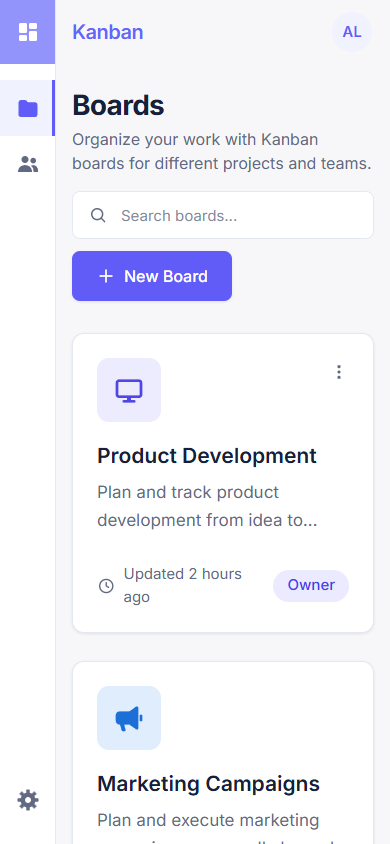
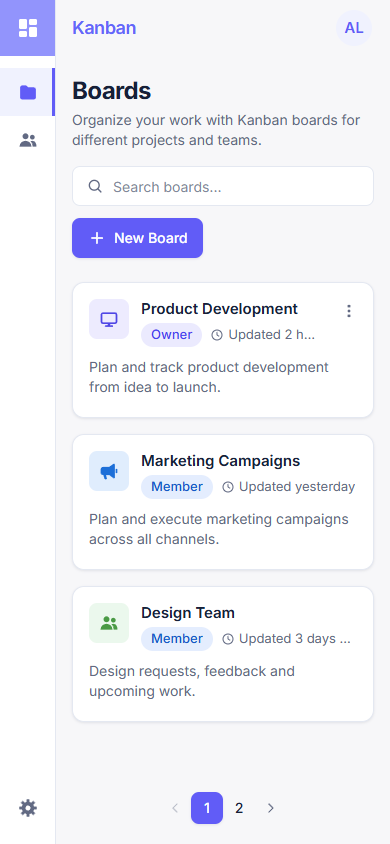
docs: document fit-to-screen paging and refresh board screenshots

diff --git a/docs/architecture/frontend-architecture.md b/docs/architecture/frontend-architecture.md
@@ -27,9 +27,9 @@ apps/frontend/src/
 │   ├── boards/               # api, query keys + hooks, Boards list / Board detail pages
 │   └── board-members/        # api, hooks, membership rules, Board Members page
 ├── pages/                    # NotFoundPage, RouteErrorPage
-├── components/               # UI primitives dùng chung (Button, TextField, Dialog, ActionMenu, states, ...)
-├── hooks/                    # usePageTitle, useFocusFirstInvalid
-├── lib/                      # env, api-client (REST envelope + pagination), query-client, form-errors, format
+├── components/               # UI primitives dùng chung (Button, TextField, Dialog, ActionMenu, Pagination, states, ...)
+├── hooks/                    # usePageTitle, useFocusFirstInvalid, useFitGrid, usePageParam, useMediaQuery
+├── lib/                      # env, api-client (REST envelope + pagination), query-client, form-errors, format, pagination
 ├── test/                     # test setup và helpers
 ├── App.tsx
 ├── main.tsx
@@ -40,6 +40,8 @@ apps/frontend/src/
 - REST client dùng chung nằm ở `lib/api-client.ts`; API calls theo feature nằm trong `features/<feature>/api.ts`, chưa có thư mục `api/` riêng.
 - Auth, Board và BoardMember types hiện định nghĩa trong `features/<feature>/types.ts` cho đến khi backend bổ sung shared contracts vào `packages/shared`.
 - TanStack Query keys của board nằm dưới `['boards']` (`features/boards/query-keys.ts`) để mutation có thể invalidate list, detail và members cùng lúc.
+- Màn hình không được scroll (xem "Fit-to-viewport rule" trong `docs/design/design-guidelines.md`). Danh sách dài (boards, members) dùng phân trang đánh số: `useFitGrid` đo số hàng vừa với vùng còn trống, `lib/pagination.ts` cắt trang, số trang lưu ở `?page=` (`usePageParam`).
+- `GET /boards` (#20) chưa có search phía server, nên `useBoards` tải tất cả các trang (`limit=100`, mức tối đa của `PageQueryDto`) rồi search và phân trang ở client. Nếu số board mỗi user tăng lớn, cần bổ sung search/paging phía server.
 
 Hiện chưa có:
 

diff --git a/docs/design/design-guidelines.md b/docs/design/design-guidelines.md
@@ -105,6 +105,8 @@ The reference images were drawn at about 1672 px wide, so copying their pixel si
 - Login and register share one frame that follows the viewport height (at most 600 px); the register password fields sit side by side from the `sm` breakpoint. The form column omits the duplicate brand on large screens because the side panel already shows it.
 - `short:` is a custom Tailwind variant (`max-height: 640px`, defined in `apps/frontend/src/style.css`) that tightens vertical spacing on short viewports.
 - When data does not fit (for example many boards or members), use numbered pagination sized to the available space instead of scrolling or "Load more".
+- Board cards use a compact row layout (icon beside the title, role chip and update time under it, then a two-line description) at a fixed 136 px height, instead of the taller icon-on-top card in `boards.png`, so two rows fit on a 1366×657 laptop. Long board descriptions in page headers are clamped to two lines.
+- Row action menus ("⋮") open upwards when there is no room below, so they never make the content area scroll.
 - Verify new screens at 1280×600, 1366×657, 1536×730, 1920×945 and 390×844, including error states.
 
 ## 3. Screen-by-screen contract
